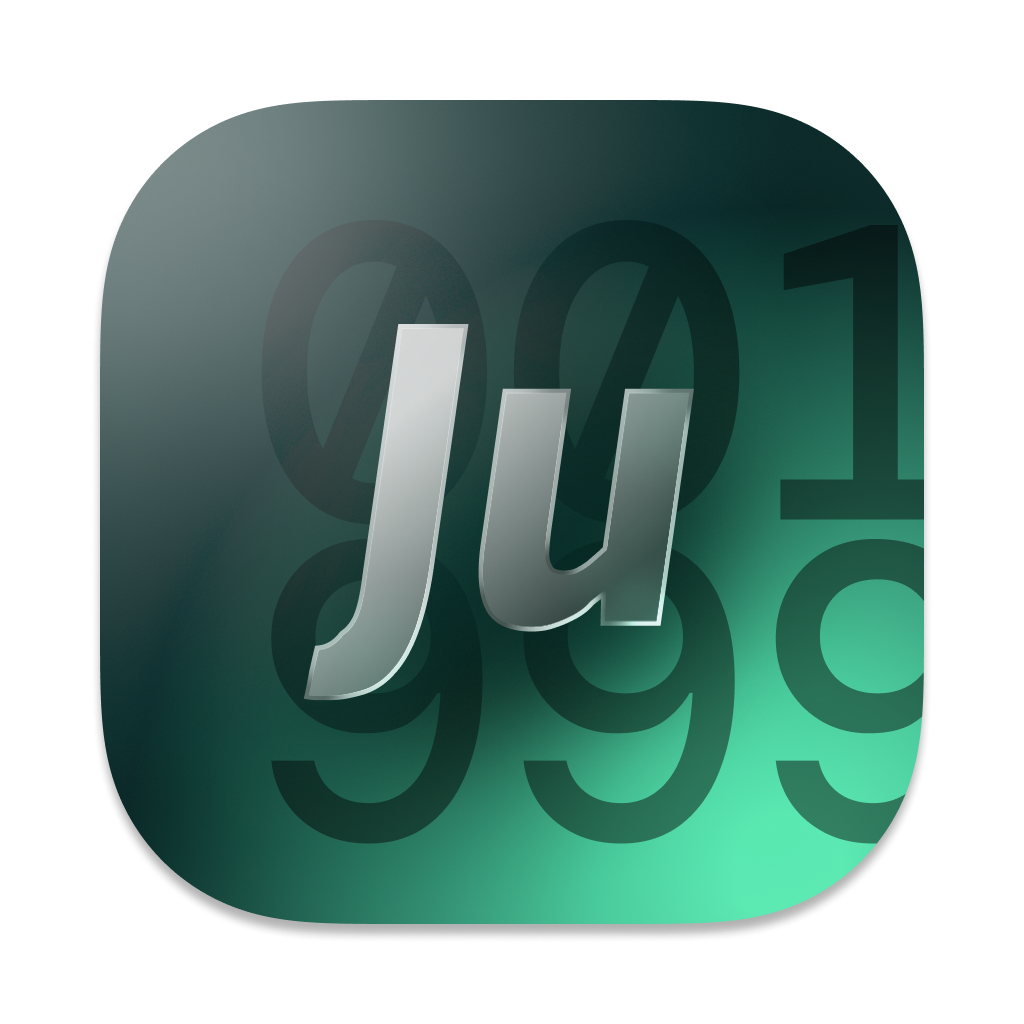
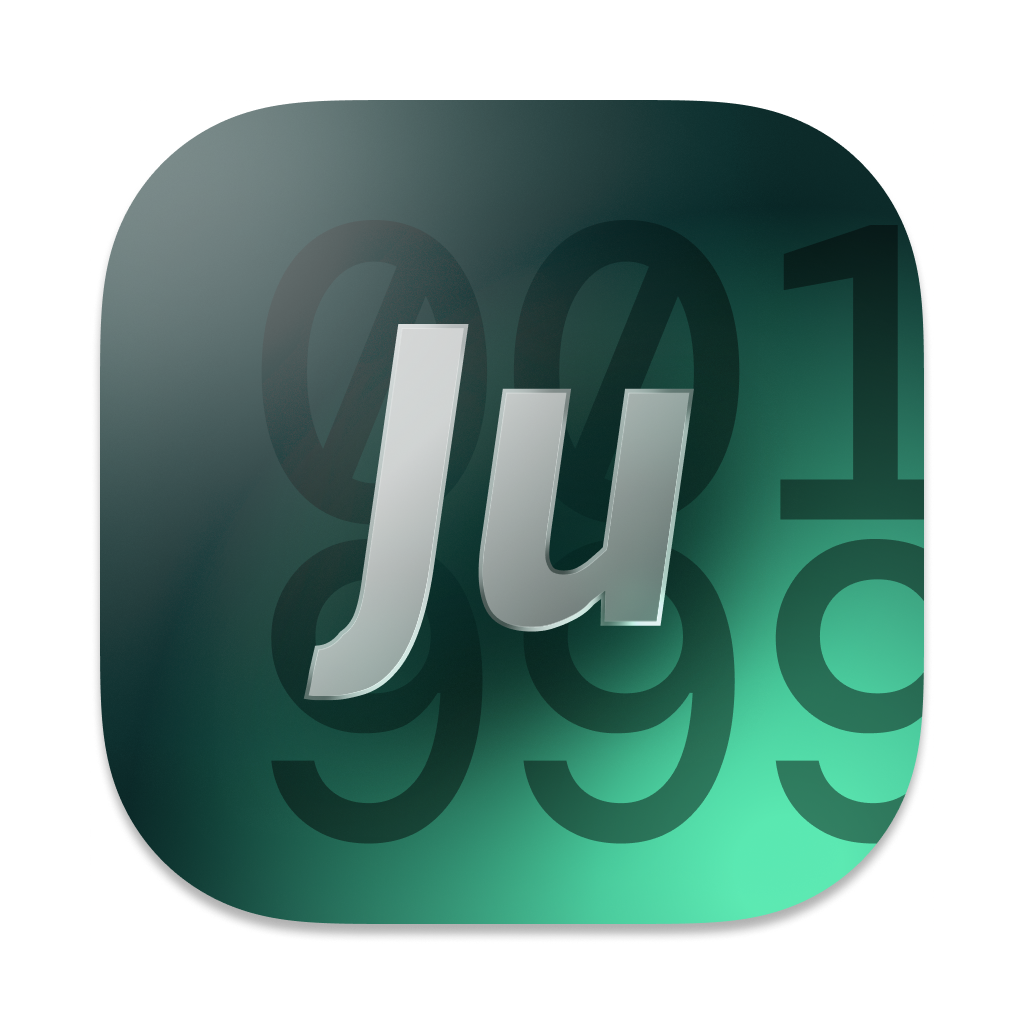
release script

Changed region(s): [[0.4688, 0.375, 0.6875, 0.625], [0.2812, 0.4688, 0.4375, 0.6875]]

diff --git a/readme.md b/readme.md
@@ -17,6 +17,7 @@ A剧略 2021 略 7 略-02.m4a
 特殊A剧略略略 3.m4a
 A剧咯咯咯-4 (2).m4a
 ```
+
 识别到正确序号，添加到开头：
 
 ```shell
@@ -25,7 +26,6 @@ A剧咯咯咯-4 (2).m4a
 03-特殊A剧略略略 3.m4a
 04-A剧咯咯咯-4 (2).m4a
 ```
-
 
 这年头批量重命名让 AI Agent 完成不就行了吗？其实还是不太行，首先就是速度慢，让
 Agent 读 Nas 上的大量文件并且识别序号实在是太慢了，并且其实不太稳定，有可能会出错，
@@ -101,3 +101,57 @@ App 来操作才是更好的方案。
 
 - 最后看每个文件是否有重复的序号，然后检查是否有 n.n 的同序号文件名，要支持 n.n，如果 001.1 和 001. 注意着要在原文件名中看是否有 n.n 的规则，而不是把重复序号强行加.n
 ```
+
+## 开发
+
+项目使用 [Bun](https://bun.sh/) 管理依赖和运行脚本。
+
+```bash
+# 安装依赖
+bun install
+
+# 启动桌面应用开发环境
+bun run start
+
+# 运行测试
+bun run test
+```
+
+### 构建桌面应用
+
+```bash
+# 打包当前平台的应用
+bun run package
+
+# 生成可分发安装包
+bun run make
+```
+
+### 构建官网与 GitHub Pages
+
+官网源文件位于 `website/`，使用 Vite 构建。构建产物会生成到 `docs/`，该目录可直接设为 GitHub Pages 的发布目录。
+
+```bash
+# 启动官网本地开发服务器
+bun run website:dev
+
+# 生成 GitHub Pages 静态文件到 docs/
+bun run website:build
+```
+
+在 GitHub 仓库的 Pages 设置中，选择从当前分支的 `/docs` 目录部署即可。
+
+### 发布 GitHub Release
+
+发布流程会根据 `package.json` 的 `version`，构建 macOS、Windows 和 Linux 的安装包，再将全部产物发布到同名的 GitHub Release。
+
+1. 将 `package.json` 中的 `version` 更新为待发布版本，例如 `1.1.0`。
+2. 提交并推送版本更新。
+3. 创建并推送同版本标签：
+
+```bash
+git tag v1.1.0
+git push origin v1.1.0
+```
+
+标签必须严格等于 `v` 加 `package.json` 版本号（例如 `v1.1.0`）。版本不一致时，发布流程会停止，避免误发布。